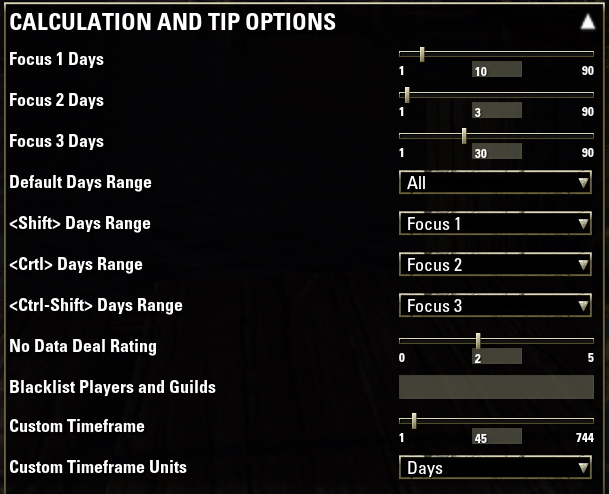
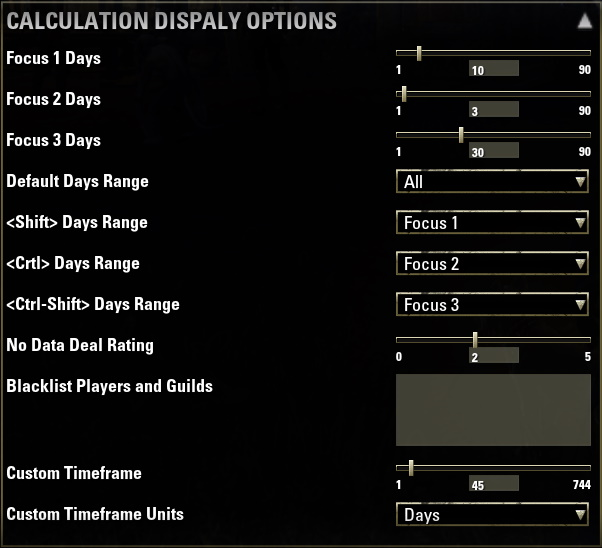
Added data managemnt options

Changed region(s): [[0.0, 0.0, 1.0, 1.0], [0.6279, 0.7591, 0.6578, 0.7895], [0.3289, 0.9717, 0.3588, 1.0]]

diff --git a/3-master_merchant.html b/3-master_merchant.html
@@ -47,7 +47,8 @@ title: Master Merchant
 <p class="list-2">&bull;&nbsp; <a href="#RefreshButton">3.2.5 Refresh Button</a></p>
 <p class="list-1">&bull;&nbsp; <a href="#StatisticsWindow">3.3 Statistics Window</a></p>
 <p class="list-1">&bull;&nbsp; <a href="#Settings">3.4 Settings</a></p>
-<p class="list-2">&bull;&nbsp; <a href="#CalculationAndTipOptions">3.4.1 Calculation And Tip Options</a></p>
+<p class="list-2">&bull;&nbsp; <a href="#DataManagementOptions">3.4.1 Data Management Options</a></p>
+<p class="list-2">&bull;&nbsp; <a href="#CalculationDisplayOptions">3.4.2 Calculation Display Options</a></p>
 <p class="list-1">&bull;&nbsp; <a href="#Misc">3.5 Misc</a></p>
 <p class="list-2">&bull;&nbsp; <a href="#Erroneoustimestamp">3.5.1 Erroneous timestamp</a></p>
 <p class="list-2">&bull;&nbsp; <a href="#Whatisbeingscanned">3.5.2 What is being scanned</a></p>
@@ -240,8 +241,18 @@ title: Master Merchant
 <p>{% include image.html file="img/statistics_window.jpg" alt="statistics_window" %}</p>
 <p class="empty">&nbsp;</p>
 <h1 class="header1" id="Settings">3.4 - Settings</h1>
+<h2 class="header2" id="DataManagementOptions">3.4.1 - Data Management Options</h2>
 <p class="empty">&nbsp;</p>
-<h2 class="header2" id="CalculationAndTipOptions">3.4.1 - Calculation And Tip Options</h2>
+<p>{% include image.html file="img/data_management_options.jpg" alt="data_management_options" %}</p>
+<p class="empty">&nbsp;</p>
+<p class="list-1">&bull;&nbsp; <font class="tan">Use Sales History Size Only</font>: This will ignore the minimum and maximum count for sales. If there are 4698 sales of an item with the day range selected for retaining data, then the sales will not be trimmed.</p>
+<p class="list-1">&bull;&nbsp; <font class="tan">Sales History Size</font>: The days rang to retain data.</p>
+<p class="list-1">&bull;&nbsp; <font class="tan">Min Item Count</font>: The minimum count of sales for a specific item before the days range is considered. If you select 90 days to retain data, but you have seen only 1 sale and the only recorded sale is 120 days old it will not be trimmed.</p>
+<p class="list-1">&bull;&nbsp; <font class="tan">Max Item Count</font>: The maximum count of sales for a specific item before the days range is considered. If you select 90 days to retain data, and you choose 1000, then the oldest sale once the threshold is reached will be trimmed. Meaning if you have 1001 sales for an item, 1 will be trimmed and 100 will remain.</p>
+<p class="list-1">&bull;&nbsp; <font class="tan">Minimal Indexing</font>: Does not add search words for items. It only adds the player search word for displaying personal sales. Searching in the Master merchant window is still possible but will take extra time.</p>
+<p class="empty">&nbsp;</p>
+<p class="empty">&nbsp;</p>
+<h2 class="header2" id="CalculationDisplayOptions">3.4.2 - Calculation Display Options</h2>
 <p class="empty">&nbsp;</p>
 <p>{% include image.html file="img/tool_tip_settings.jpg" alt="tool_tip_settings" %}</p>
 <p class="empty">&nbsp;</p>
